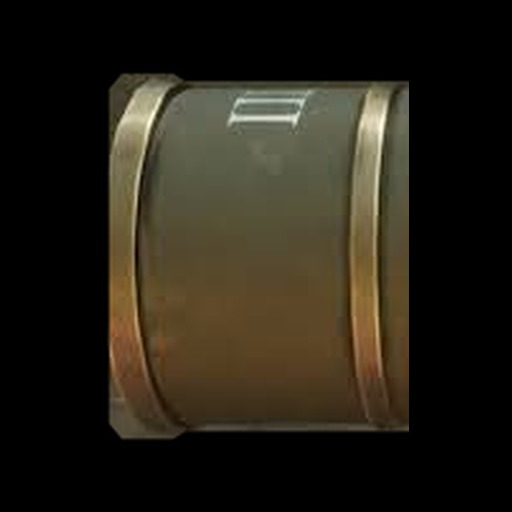
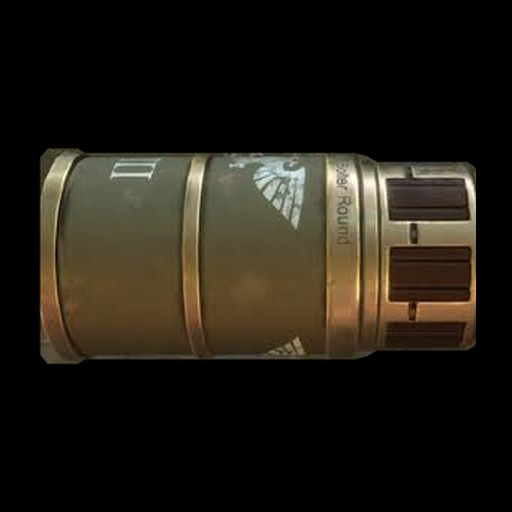
Boltgun 1.4.3: casing art is the round without its nose cone
Claude-Session: https://claude.ai/code/session_01PqPi8UEDnERcNBcjVgrc36

diff --git a/tools/build_items.py b/tools/build_items.py
@@ -129,7 +129,7 @@ def shell():
     return d
 
 def casing():
-    d = base("casing75", "Ammo", 1500, [("Main", (15, 4, 97, 120))], (1, 1), 0.5, 0.01, 2.0, 200,
+    d = base("casing75", "Ammo", 2500, [("Main", (37, 4, 181, 92))], (2, 1), 0.5, 0.01, 2.0, 200,
              [(IRON_PLATE, 1)], 3, 20, [(56, 1)], spawn=False)
     d.update({"ammoNumber": 1, "ammoBaseDamage": 0.0})
     return d

diff --git a/src/Plugin.cs b/src/Plugin.cs
@@ -11,7 +11,7 @@ namespace Boltgun
     public class Plugin : BasePlugin
     {
         public const string Guid = "girthy_mods.zedzone.boltgun";
-        public const string Version = "1.4.2";
+        public const string Version = "1.4.3";
 
         public override void Load()
         {

diff --git a/CHANGELOG.md b/CHANGELOG.md
@@ -1,5 +1,8 @@
 # Changelog
 
+## 1.4.3
+- The casing is now the whole round with the nose cone cut off (2x1 in the inventory), drawn at the same scale as the round.
+
 ## 1.4.2
 - The casing recipe uses the game's Iron Plate directly (item 8) instead of looking it up by name.
 
